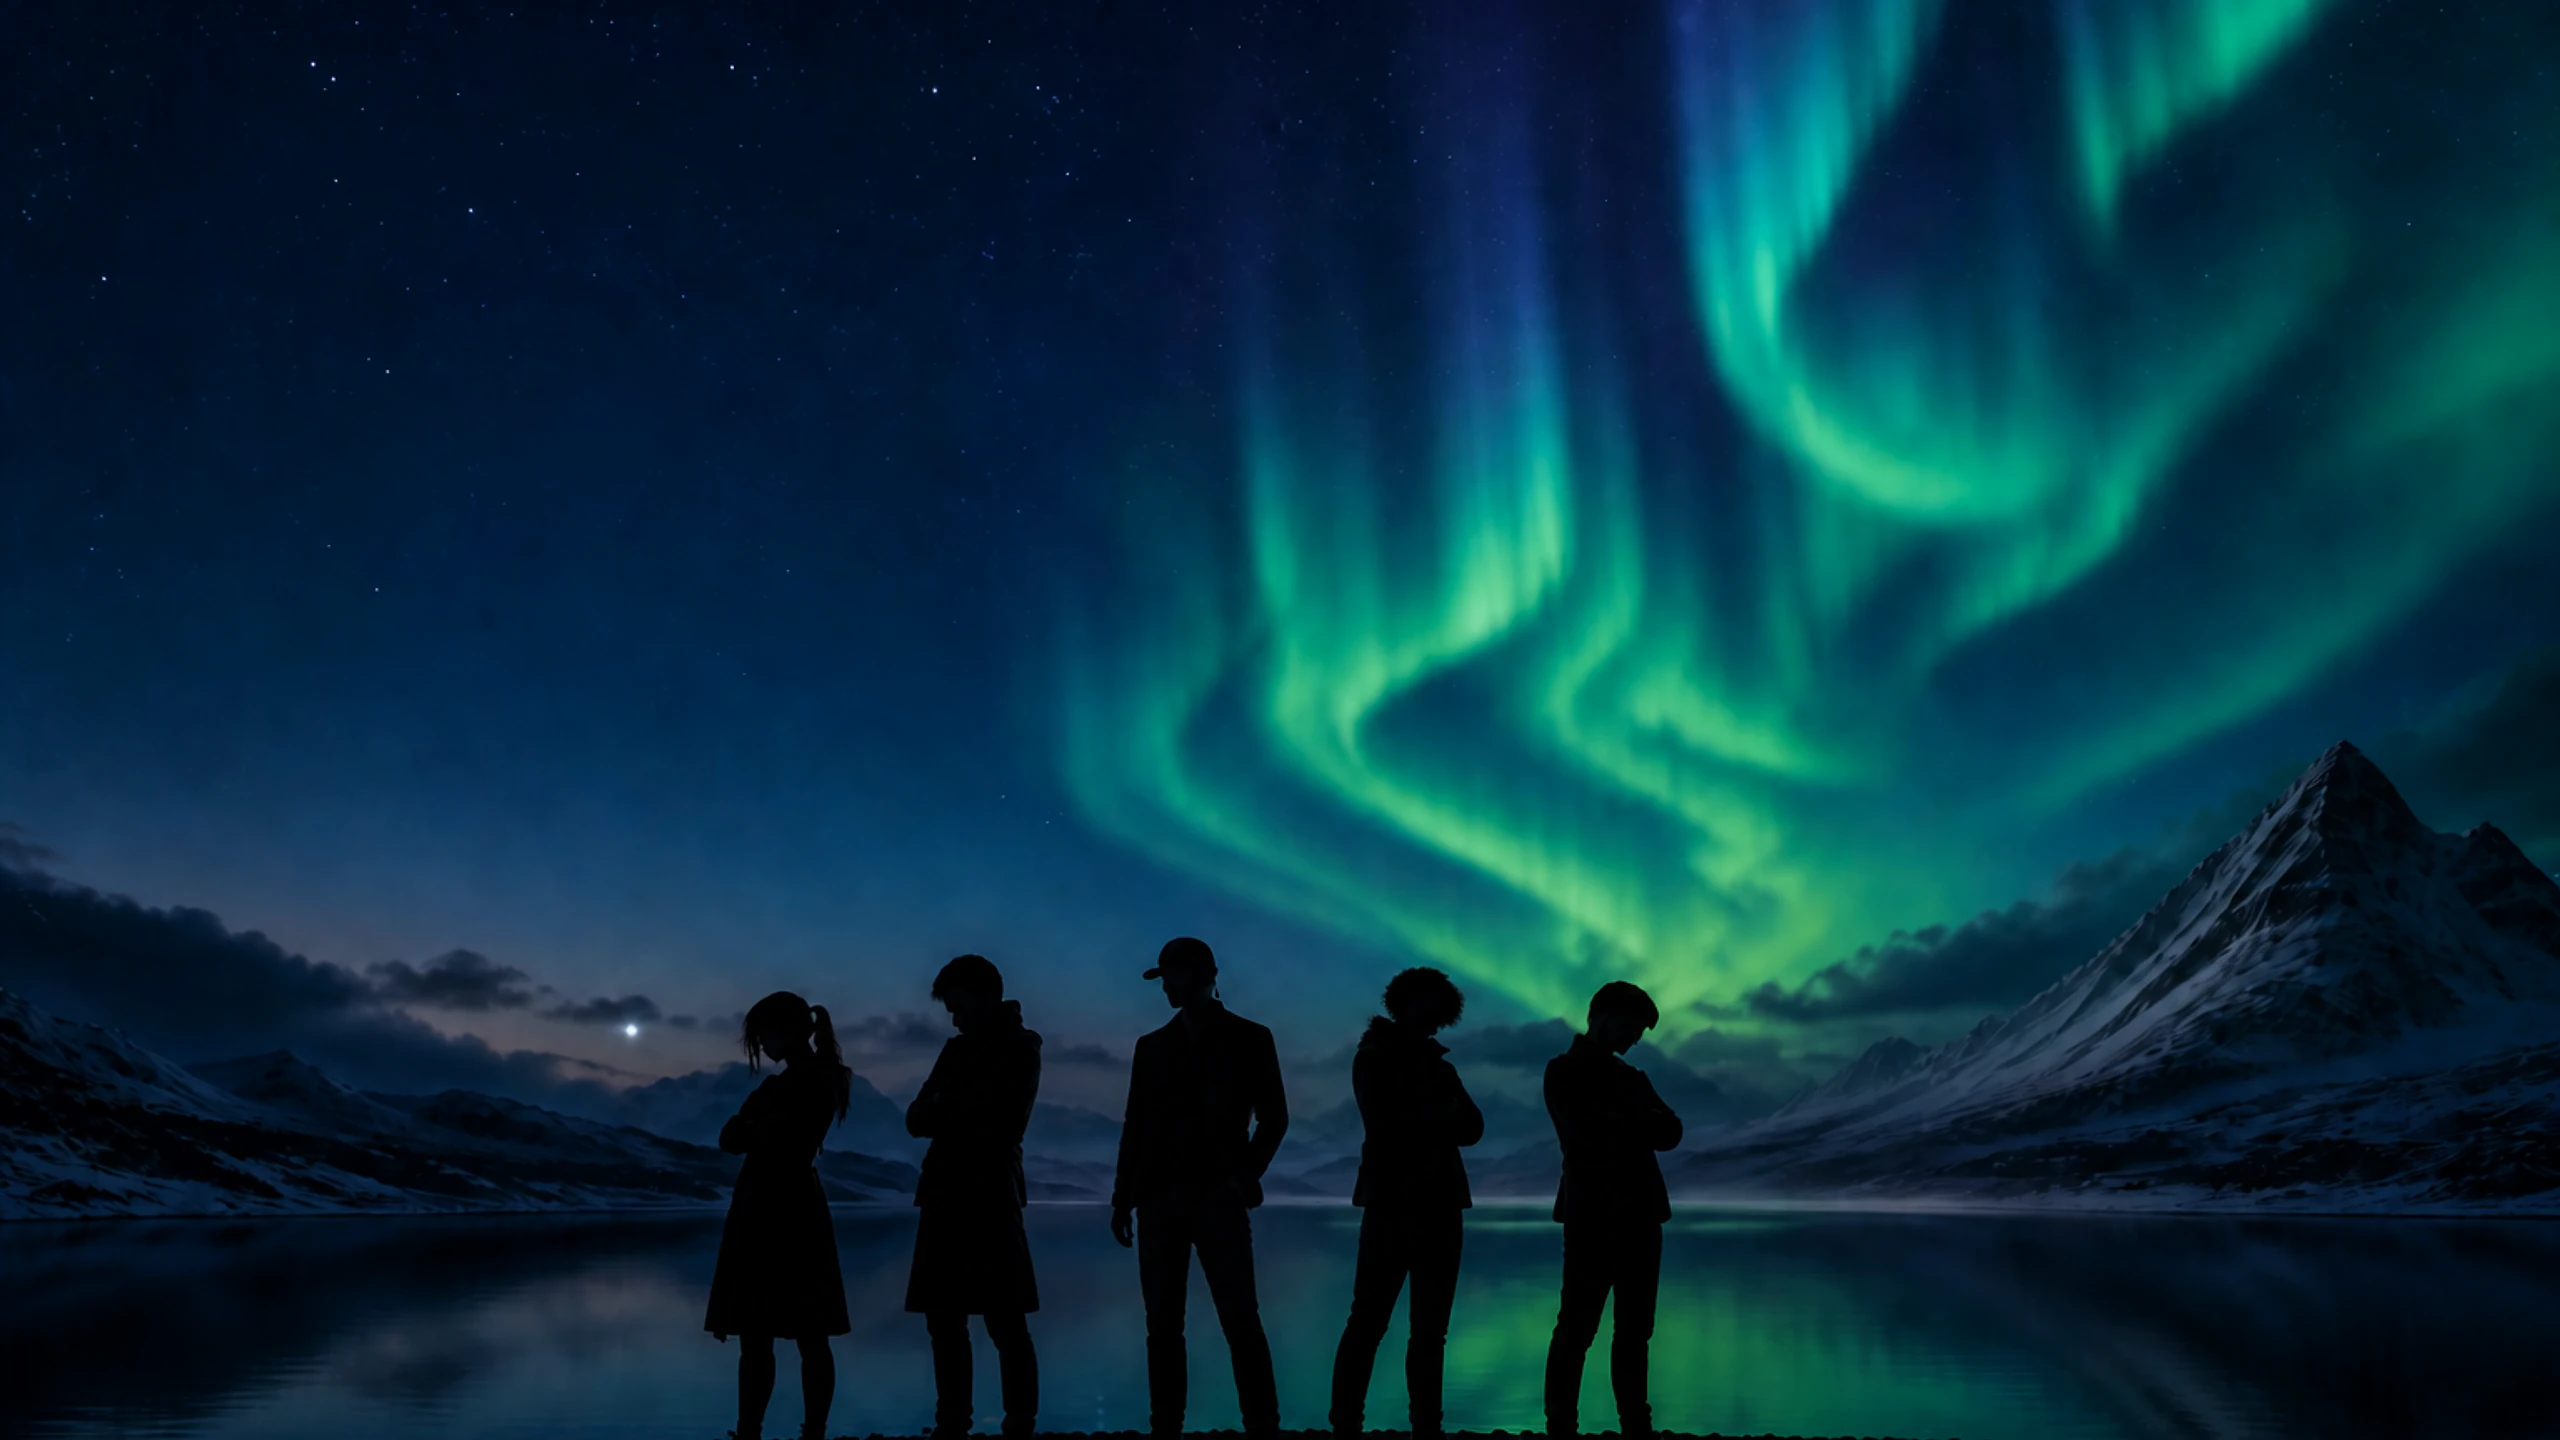
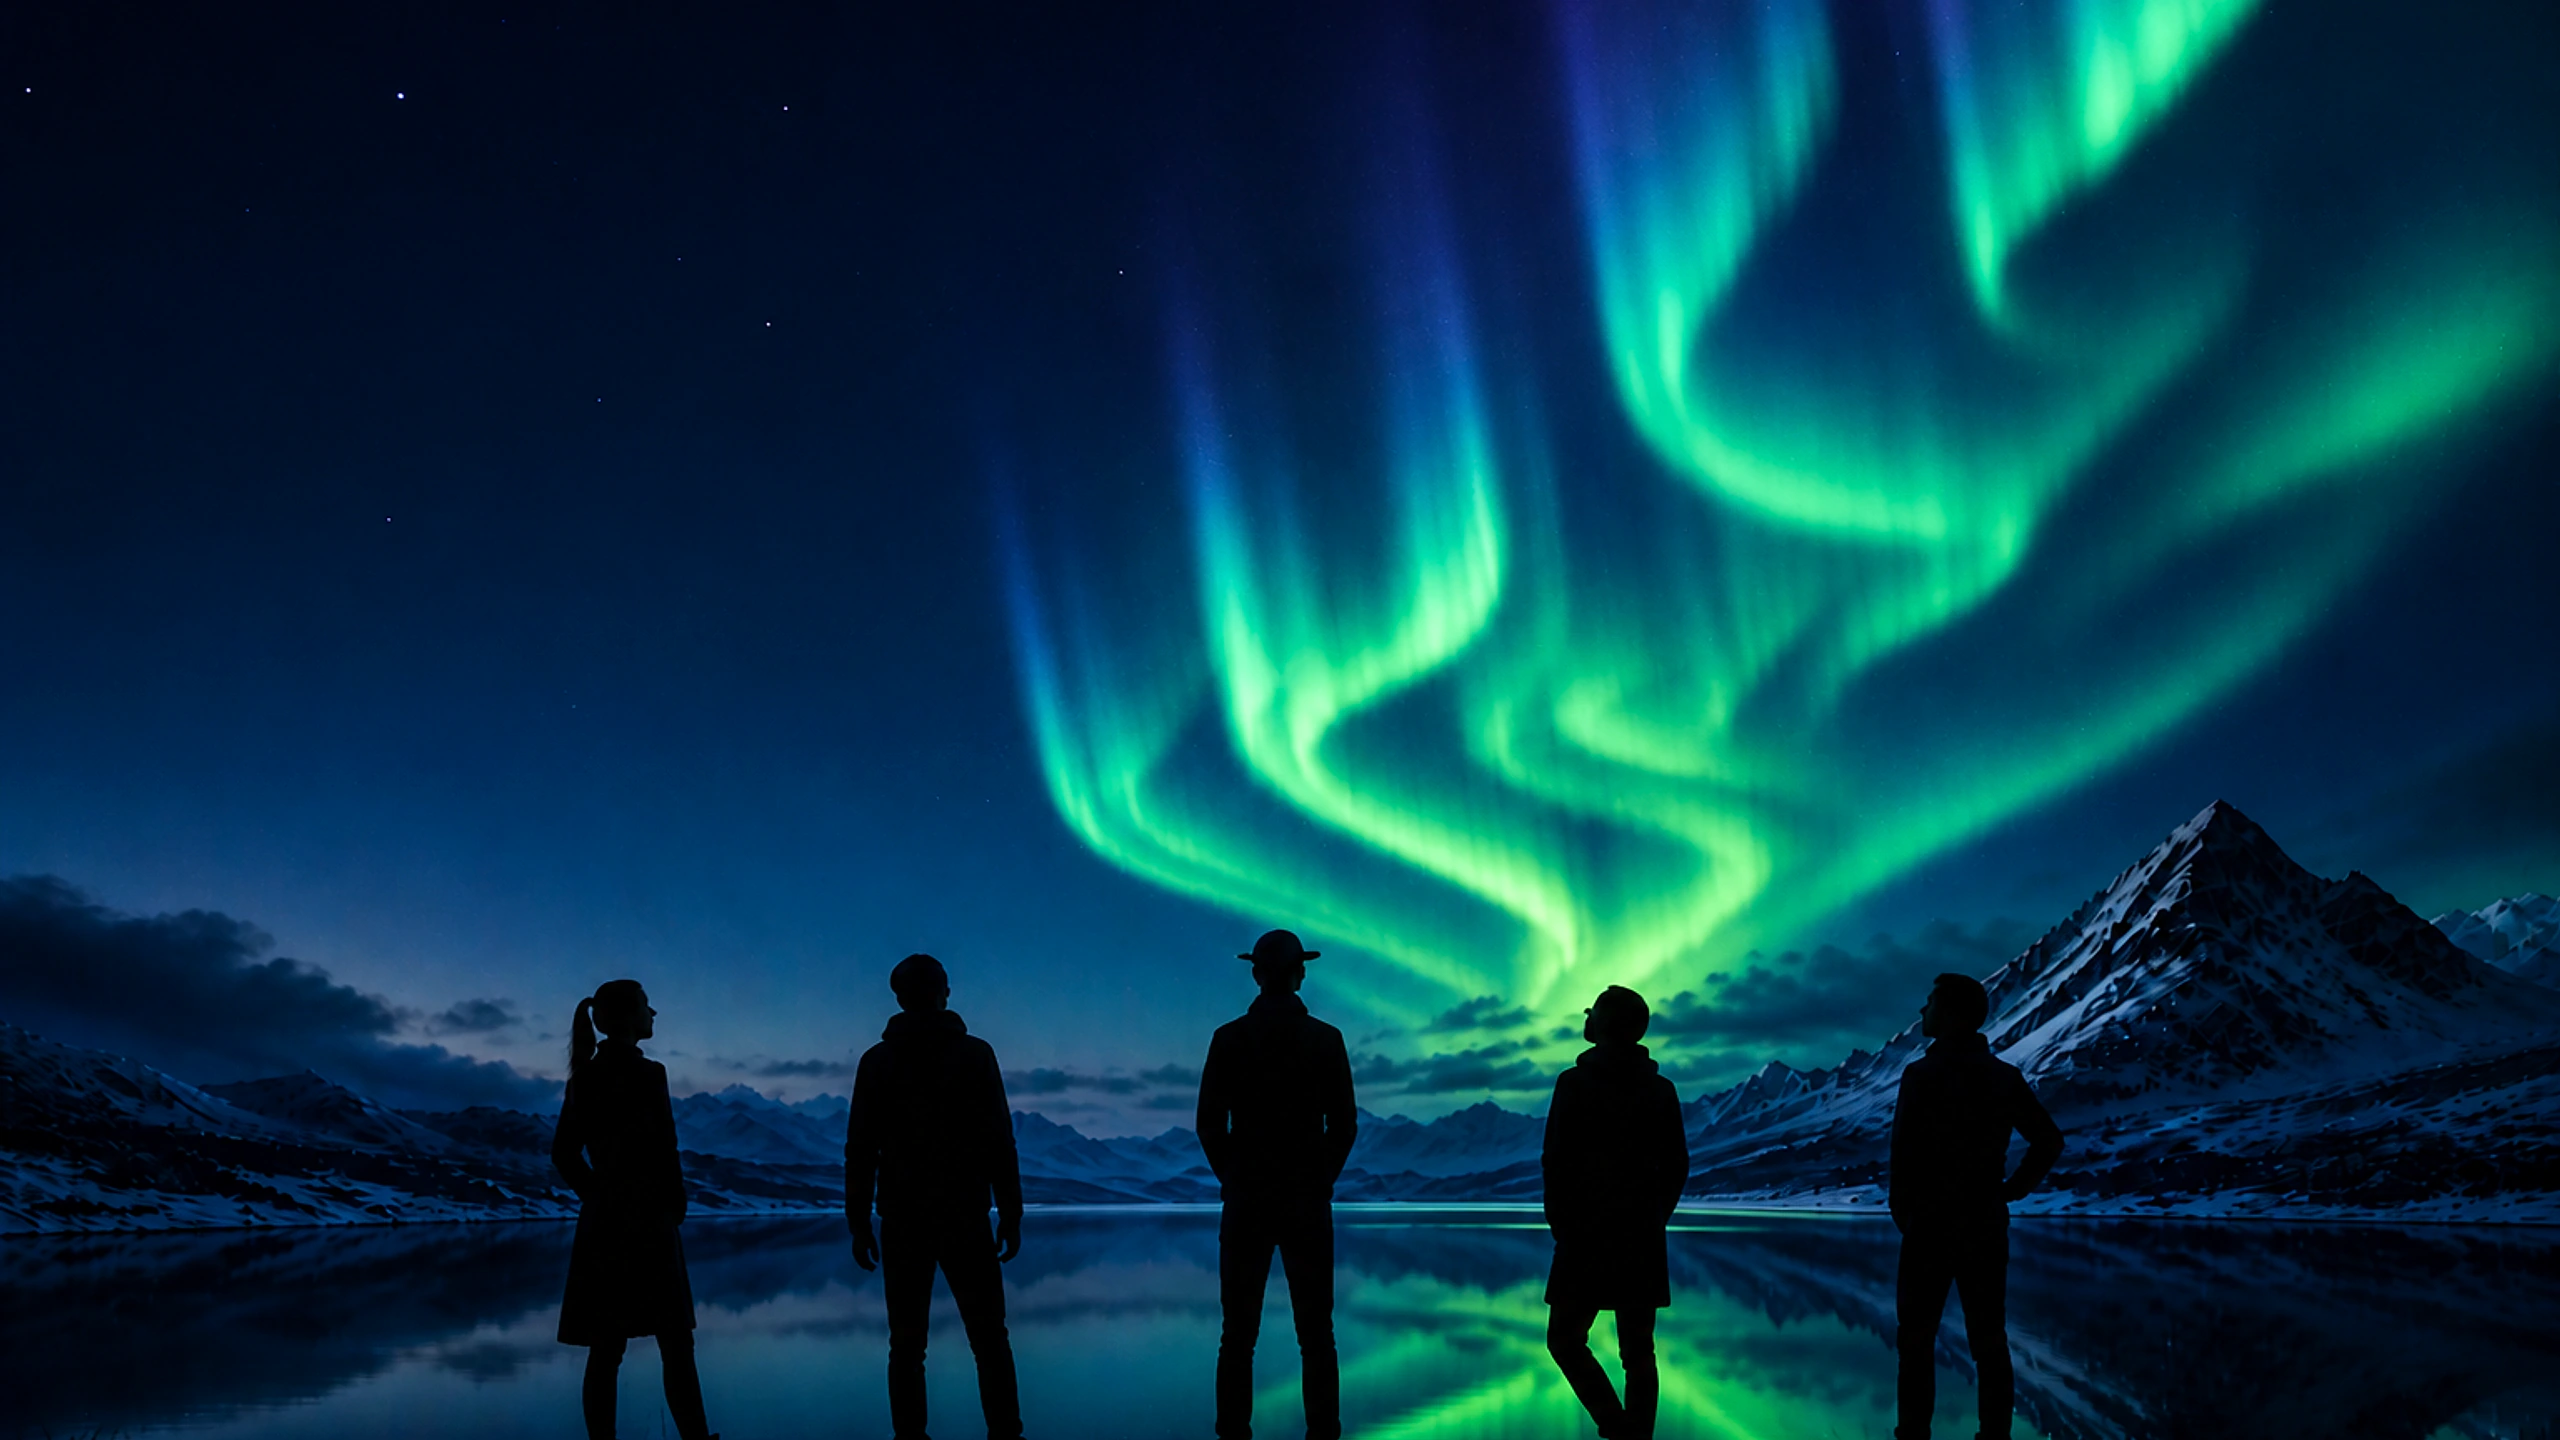
Update image assets: Replace the WebP image source in index.html and home-aurora-bg.tsx for better cache management, and reduce star count in home-aurora-effects.tsx for improved performance.

diff --git a/src/components/home-aurora-effects.tsx b/src/components/home-aurora-effects.tsx
@@ -49,7 +49,7 @@ const uvToScreen = (cover: Cover, ux: number, uy: number) => ({
 });
 
 const createStars = (): Star[] =>
-	Array.from({ length: 220 }, () => {
+	Array.from({ length: 48 }, () => {
 		const bright = Math.random() > 0.86;
 		return {
 			ux: Math.random() * STAR_UV.right,

diff --git a/src/components/home-aurora-bg.tsx b/src/components/home-aurora-bg.tsx
@@ -7,7 +7,7 @@ export const HomeAuroraBg = () => (
 	>
 		<img
 			className='home-aurora-image'
-			src='/home-aurora-team-4k.webp?v=ben-half1'
+			src='/home-aurora-team-4k.webp?v=fewer-stars2'
 			alt=''
 			decoding='async'
 			fetchPriority='high'

diff --git a/index.html b/index.html
@@ -61,7 +61,7 @@
 		<link
 			rel="preload"
 			as="image"
-			href="/home-aurora-team-4k.webp?v=ben-half1"
+			href="/home-aurora-team-4k.webp?v=fewer-stars2"
 			type="image/webp"
 		/>
 
